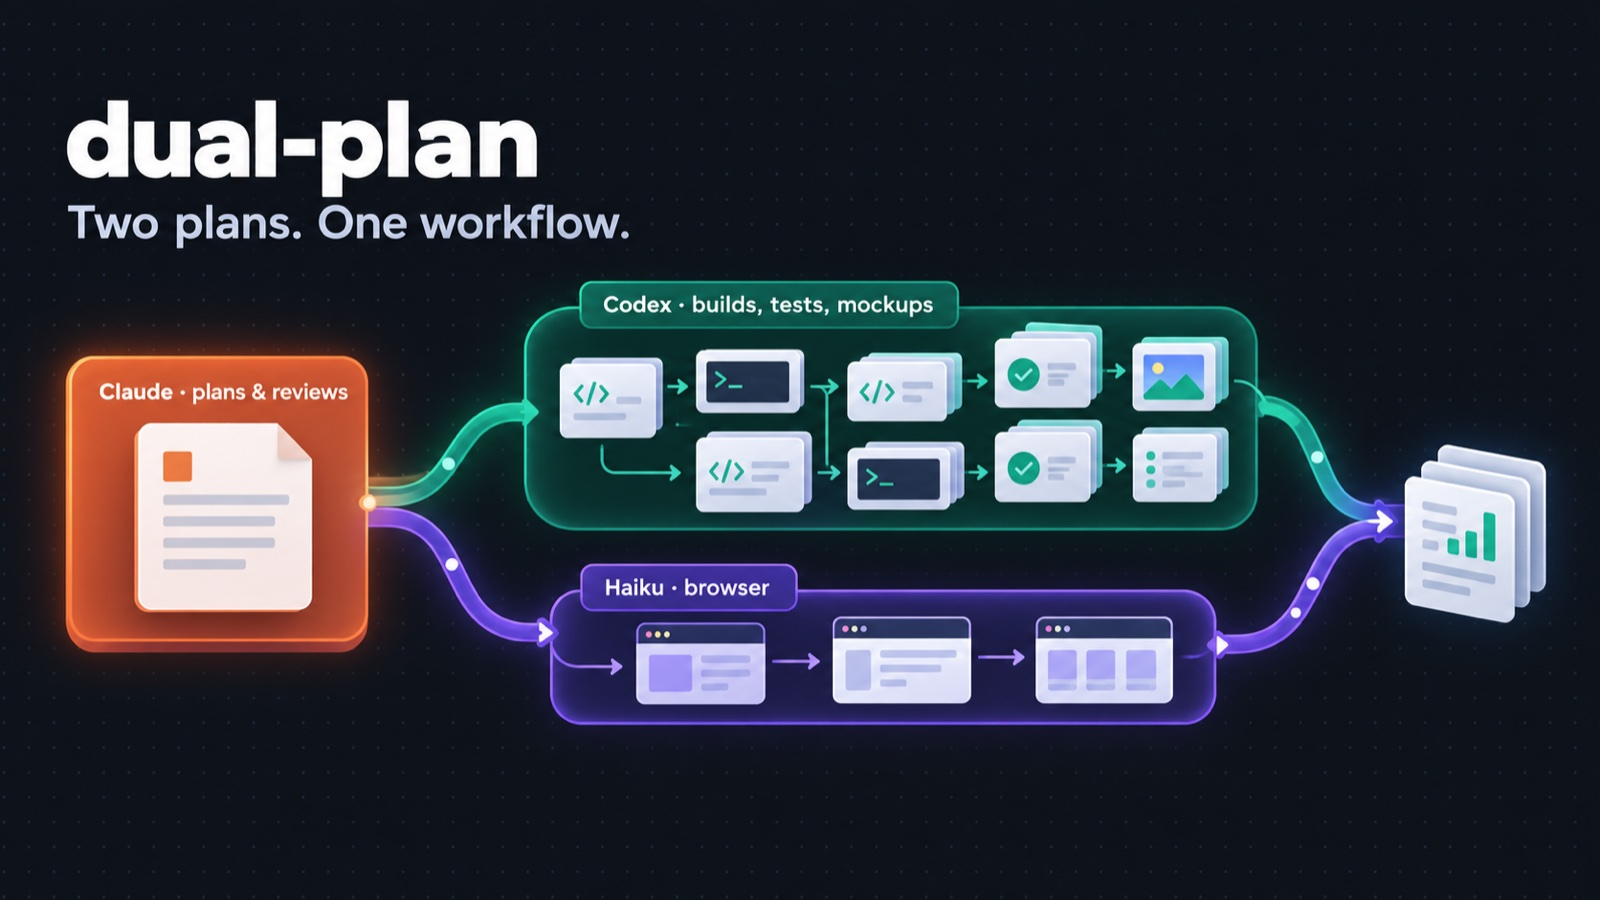
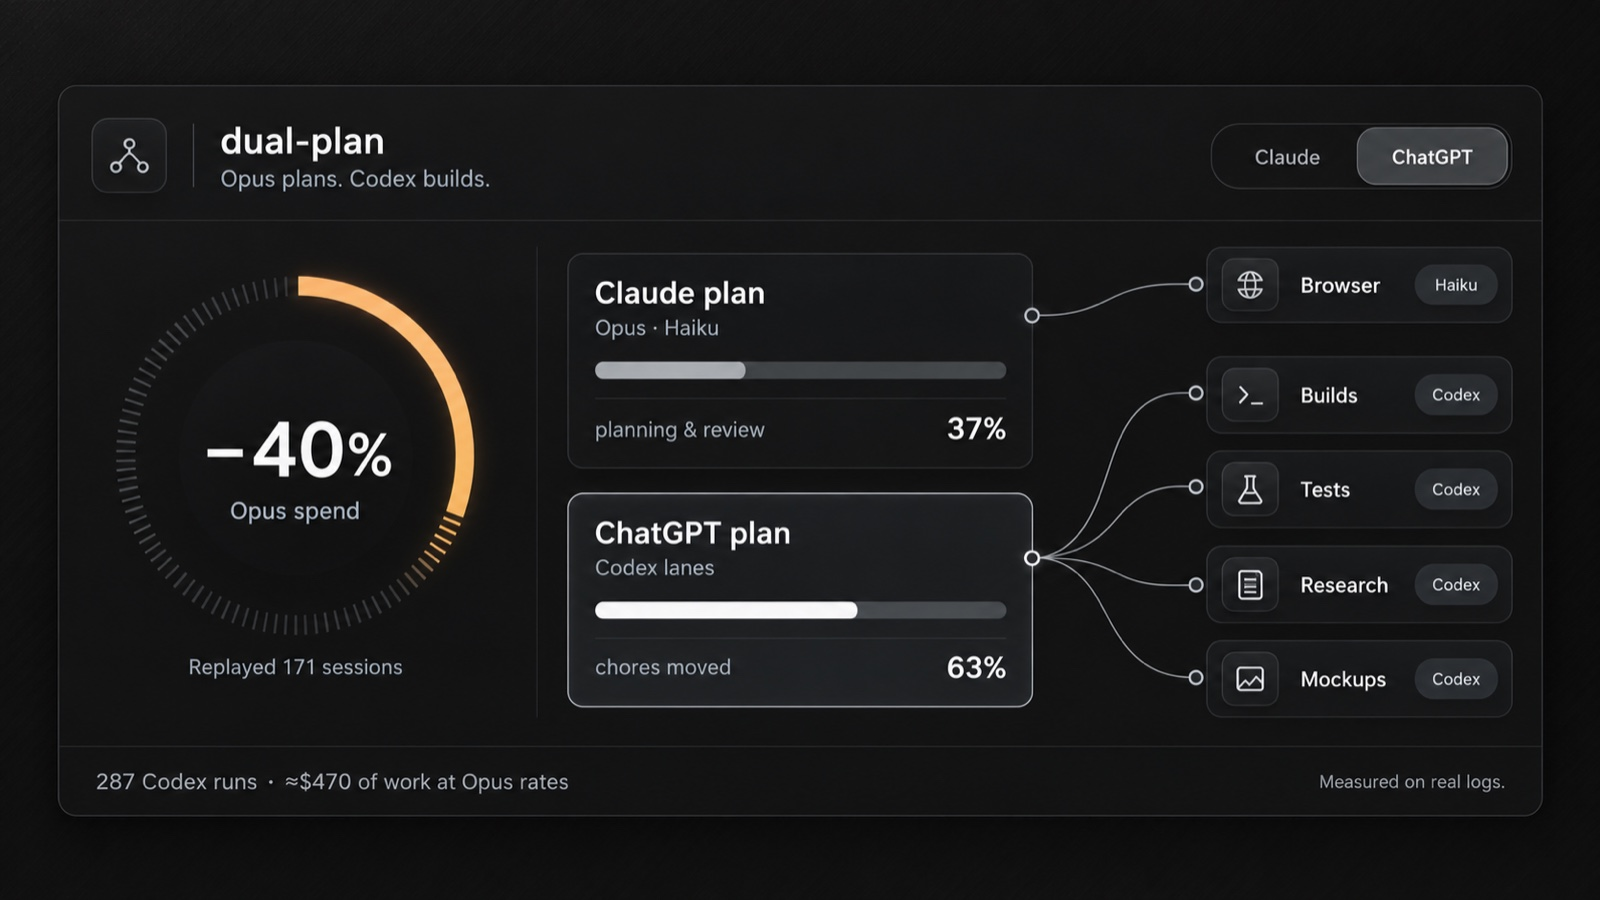
New hero image; fix codex_image --ref swallowing the prompt

diff --git a/skills/dual-plan/scripts/codex_image.py b/skills/dual-plan/scripts/codex_image.py
@@ -52,7 +52,7 @@ def main():
     cmd = ["codex", "exec", "-m", model, "-s", "workspace-write", "--skip-git-repo-check",
            "--ephemeral", "--disable", "multi_agent", "-o", last]
     for r in a.ref:
-        cmd += ["-i", os.path.abspath(r)]
+        cmd += [f"--image={os.path.abspath(r)}"]  # -i is variadic and would swallow the prompt
     t0 = time.time()
     with open(os.path.join(tmp, "stdout.txt"), "w") as out, open(os.path.join(tmp, "stderr.txt"), "w") as err:
         rc = subprocess.run(cmd + [PREAMBLE + prompt], stdin=subprocess.DEVNULL, stdout=out, stderr=err).returncode

diff --git a/README.md b/README.md
@@ -1,4 +1,4 @@
-<img src="./assets/hero.jpg" alt="dual-plan: Claude plans and reviews, Codex builds, tests and makes mockups, Haiku handles the browser" width="100%" />
+<img src="./assets/hero.jpg" alt="dual-plan: Opus plans on the Claude plan; builds, tests, research and mockups run on Codex lanes on the ChatGPT plan; 40% less Opus spend" width="100%" />
 
 # dual-plan
 
